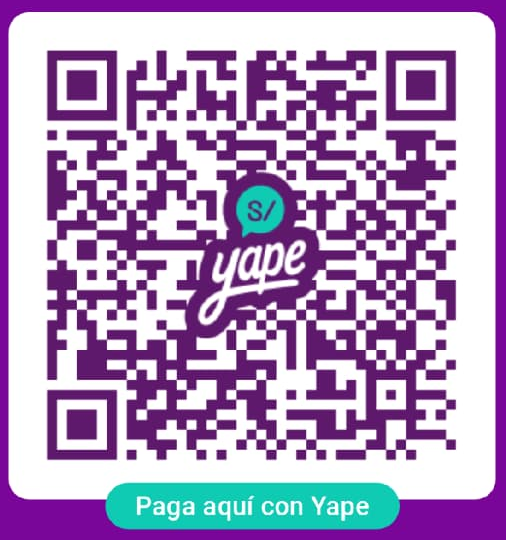
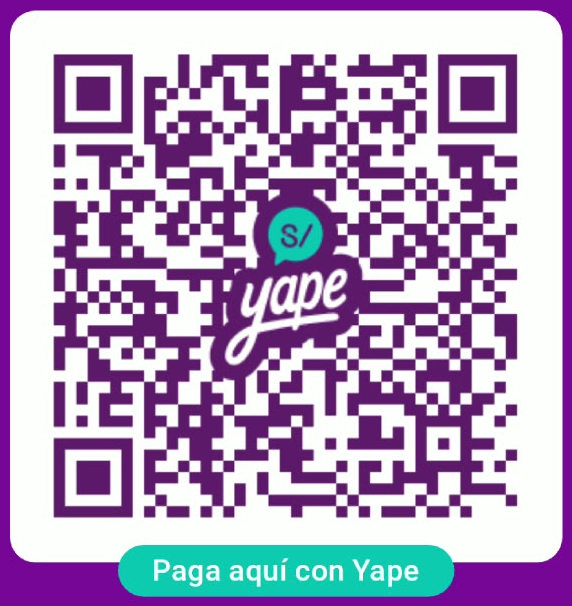
Yape a la cuenta del Secretario de Economía (QR nuevo)

diff --git a/sitio/js/paginas/publico.js b/sitio/js/paginas/publico.js
@@ -110,7 +110,7 @@ function confirmar(a) {
       <div class="exito__num">${seguro(a.casilleroId)}</div>
       <p>Queda apartado a tu nombre hasta el <strong>${fecha(a.venceReserva)}</strong></p>
       <div class="pago">
-        <p><b>1.</b> Yapea <strong>${precio()}</strong> a <strong>${seguro(yape.titular)}</strong> · <span class="sin-corte">${seguro(yape.numero)}</span></p>
+        <p><b>1.</b> Yapea <strong>${precio()}</strong> a <strong>${seguro(yape.titular)}</strong>${yape.numero ? ` · <span class="sin-corte">${seguro(yape.numero)}</span>` : ''}</p>
         ${yape.qr ? `<img class="pago__qr" src="${seguro(yape.qr)}" alt="QR de Yape">` : ''}
         <p><b>2.</b> Envía la captura por WhatsApp. Logística confirma tu casillero.</p>
       </div>

diff --git a/sitio/js/config.js b/sitio/js/config.js
@@ -20,8 +20,10 @@ export const CONFIG = {
   // Precio por ciclo en soles. null = se muestra "a confirmar".
   precio: 14,
 
-  // Pago por Yape. qr: ruta de la imagen del QR (null = no se muestra).
-  yape: { titular: 'Paolo Palacios', numero: '966 378 397', qr: 'assets/yape-qr.png' },
+  // Pago por Yape (cuenta del Secretario de Economía del CCOA).
+  // numero: '' = no se muestra. qr: ruta de la imagen del QR (null = no se muestra).
+  // La captura igual se envía al WhatsApp de Logística (arriba).
+  yape: { titular: 'Alexander Guillen Olivera', numero: '', qr: 'assets/yape-qr.png' },
 
   // Redes del CCOA (pie de página).
   // Para quitar una, bórrala de la lista; para agregar, copia una línea.

diff --git a/CONTEXTO.md b/CONTEXTO.md
@@ -1,6 +1,6 @@
 # Contexto del proyecto: Casilleros CCOA
 
-> **Para cualquier IA o persona que continúe este proyecto.** Lee este archivo primero: resume todo lo decidido, lo hecho y lo pendiente, sin necesidad de conversaciones anteriores. Última actualización: **2026-10-08**.
+> **Para cualquier IA o persona que continúe este proyecto.** Lee este archivo primero: resume todo lo decidido, lo hecho y lo pendiente, sin necesidad de conversaciones anteriores. Última actualización: **2026-11-12**.
 > Si cambias algo importante, **actualiza este archivo** (sección 9, "Historial").
 
 ---
@@ -17,7 +17,7 @@ Página web para que la **Secretaría de Logística** del **Centro Cultural Ósc
 1. Ve el mapa de casilleros con su estado (libre, reservado, ocupado, inhabilitado).
 2. Elige uno libre y llena apellidos, nombres, código UNI y celular, y acepta las condiciones.
 3. El casillero queda **reservado 48 h**: nadie más puede tomarlo.
-4. Yapea **S/ 14** a Paolo Palacios (966 378 397) y envía la captura por **WhatsApp** (botón con el mensaje ya escrito).
+4. Yapea **S/ 14** al **Secretario de Economía del CCOA** (Alexander Guillen Olivera, con el QR de la página) y envía la captura por **WhatsApp a Logística** (966 378 397; botón con el mensaje ya escrito).
 5. Logística confirma el pago → el casillero pasa a **ocupado**. Si no paga en 48 h, se libera solo.
 
 **Logística (panel interno):** ve quién tiene cada casillero y su contacto, confirma pagos, asigna a mano, libera, inhabilita, busca, ve la bitácora (quién hizo qué) y exporta a Excel (CSV).
@@ -29,7 +29,7 @@ Página web para que la **Secretaría de Logística** del **Centro Cultural Ósc
 |---|---|
 | Duración | Un ciclo (ciclo actual: **2026-2**) |
 | Precio | **S/ 14** por ciclo |
-| Pago | Yape a nombre de **Paolo Palacios**, **966 378 397**; captura al mismo WhatsApp |
+| Pago | Yape a la cuenta del **Secretario de Economía** (Alexander Guillen Olivera; QR en `sitio/assets/yape-qr.png`, original en `material/`). Su número aún no está en la página (`config.js` → `yape.numero` vacío). Captura al WhatsApp de Logística |
 | WhatsApp de Logística | 966 378 397 (`51966378397`) |
 | Plazo para pagar | 48 h; si no, la reserva se cancela sola |
 | Casilleros por persona | Uno (se controla por código UNI) |
@@ -134,6 +134,7 @@ CCOA/                       (carpeta local de Paolo; NO es la de sus cursos de l
 **De Paolo:**
 - [x] `gh auth login` con token (cuenta grampass) ✔. Repositorio público creado y página publicada ✔.
 - [x] Arreglo del ciclo como fecha cargado en Apps Script ✔.
+- [ ] Número de celular del Secretario de Economía para mostrarlo junto al QR (`config.js` → `yape.numero`).
 - [ ] Mascotas en buena calidad (PNG ≥ 500 px): portapapeles, leyendo libro, balón.
 - [x] QR de Yape → `sitio/assets/yape-qr.png` (original en `material/`) ✔.
 - [x] Google Sheet instalada en el Gmail personal y probada: reserva, correo de aviso y WhatsApp OK ✔.
@@ -169,3 +170,4 @@ CCOA/                       (carpeta local de Paolo; NO es la de sus cursos de l
 - **2026-10-09:** pie de página con logo, Facebook y canal de WhatsApp; panel de demostración fuera de la página publicada; mantenimiento (ajustes y estilos sin uso eliminados, notas de docs/ actualizadas al estado real).
 - **2026-10-12:** disposición confirmada con fotos (5×4, 1 arriba a la izquierda, por filas). Agregado el **bloque C** (dentro del CCOA, 1C–20C) en la página y en el servidor; *Configurar hoja* ahora agrega los casilleros que falten.
 - **2026-10-13:** menú *Importar ocupantes…* en la hoja (pestaña Importar → carga con historial). Lista 2026-2 preparada en `material/` (no se sube: datos personales).
+- **2026-11-12:** el Yape pasa a la cuenta del Secretario de Economía (QR nuevo, sin número por ahora); la captura sigue yendo al WhatsApp de Logística. Guía PDF y presentación de uso para el equipo.

diff --git a/docs/Flujo de alquiler.md b/docs/Flujo de alquiler.md
@@ -16,7 +16,7 @@ INHABILITADO: casillero dañado o reservado para el CCOA. Nadie lo puede pedir.
 1. **Alumno** abre la página y ve solo el estado de cada casillero (no ve nombres).
 2. Toca uno **libre**, llena apellidos, nombres, código UNI y celular, y acepta las condiciones.
 3. El casillero pasa a **reservado** en ese instante: nadie más puede pedirlo.
-4. Logística recibe un **correo** con los datos. La página le muestra al alumno el **QR de Yape** y un botón de WhatsApp con el mensaje ya escrito (966 378 397).
+4. Logística recibe un **correo** con los datos. La página le muestra al alumno el **QR de Yape** (cuenta del Secretario de Economía) y un botón de WhatsApp con el mensaje ya escrito (966 378 397).
 5. El alumno yapea **S/ 14** y manda la captura. **Logística** marca **Pagó** en la Google Sheet: queda **ocupado**.
 6. Si no se marca *Pagó* en el plazo (*Horas para pagar* en la hoja), la reserva se libera sola.
 7. Al terminar el ciclo: menú **Casilleros CCOA → Empezar nuevo ciclo…** (renovación con prioridad). Ver [[Instalar la hoja]].

diff --git a/docs/Decisiones pendientes.md b/docs/Decisiones pendientes.md
@@ -4,7 +4,7 @@ Volver a [[00 Inicio]]. Ver también [[Puesta en marcha]].
 
 ## Ya decidido
 - [x] Duración: por ciclo. Uno por persona. El candado lo pone cada alumno.
-- [x] Precio **S/ 14**, pago por **Yape** a Paolo Palacios (966 378 397) con captura por WhatsApp. QR en la página.
+- [x] Precio **S/ 14**, pago por **Yape** a la cuenta del Secretario de Economía (Alexander Guillen Olivera; desde 2026-11-12, antes Paolo Palacios) con captura por WhatsApp a Logística (966 378 397). QR en la página.
 - [x] **48 h** para pagar; si no, se libera sola.
 - [x] **Renovación** con prioridad para quienes ya tienen casillero (menú *Empezar nuevo ciclo…* en la hoja). Publicidad avisa por redes.
 - [x] Algunos casilleros son del CCOA → se marcan *Inhabilitado* en la hoja.
